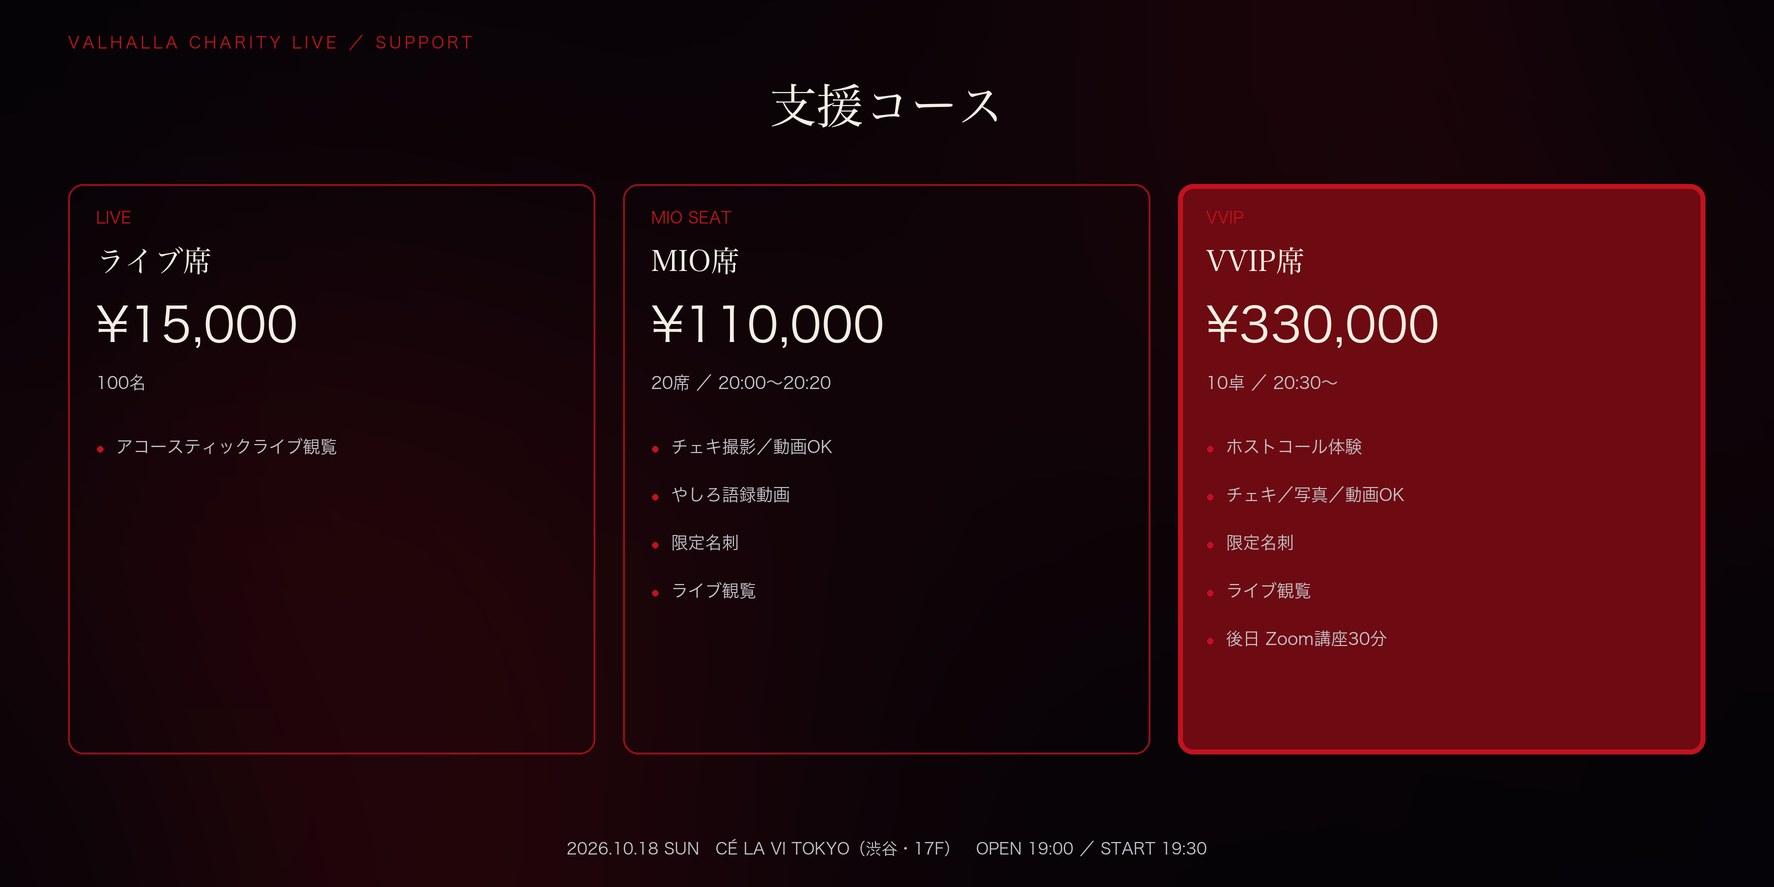
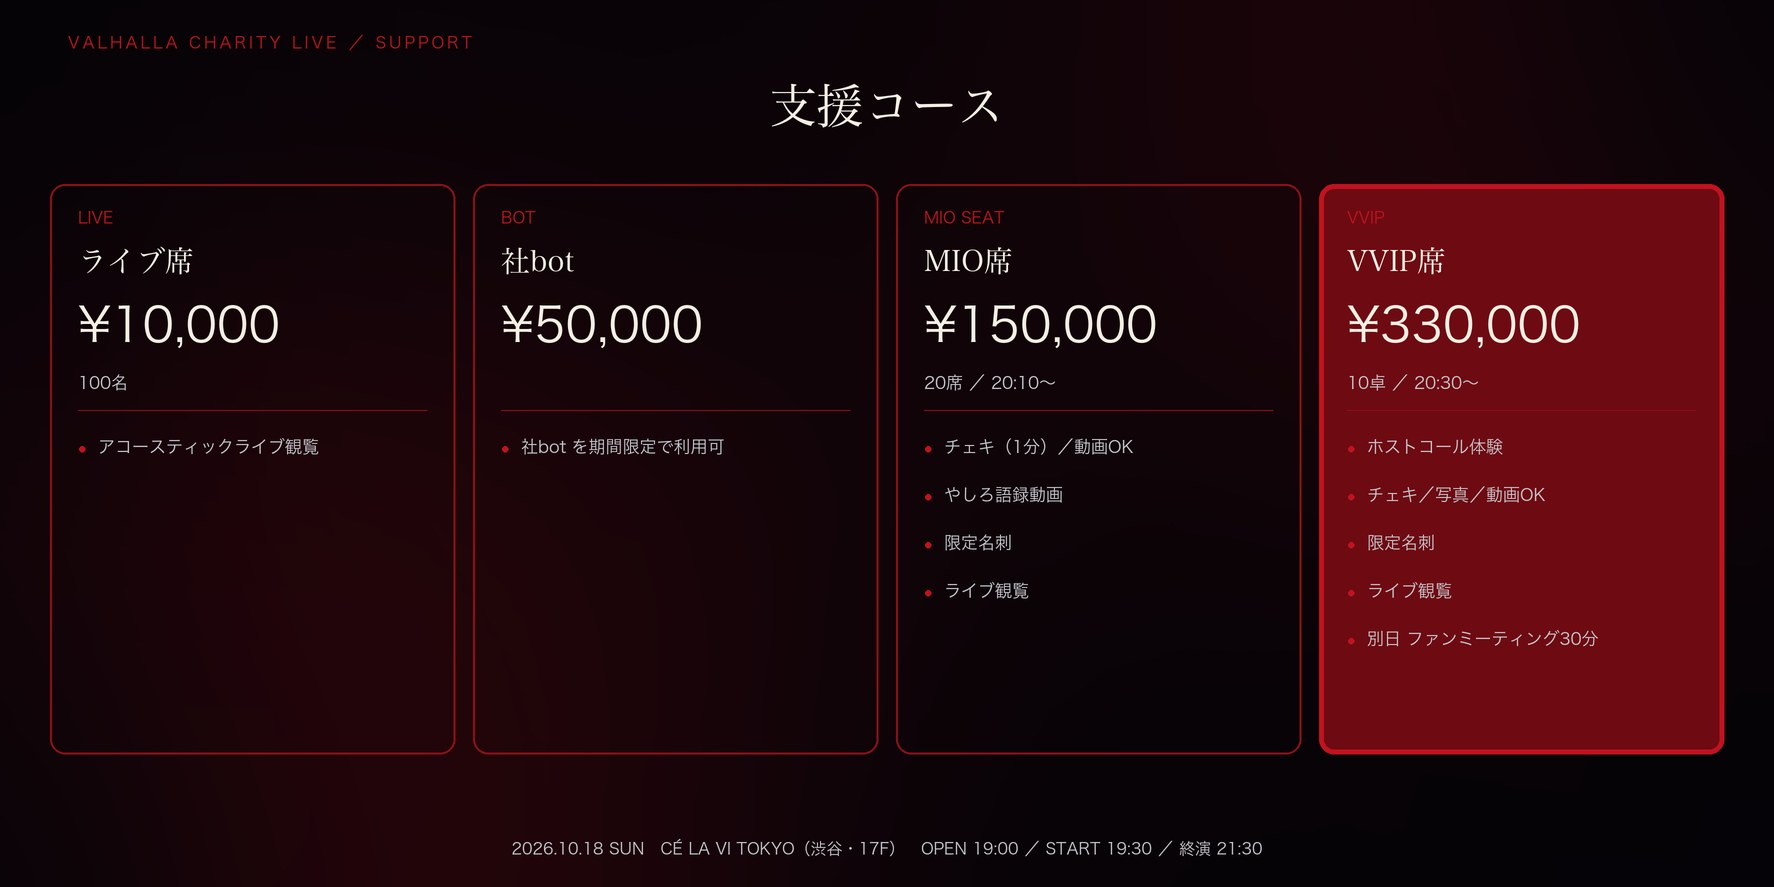
charity: update the return tiers per kazuma's revision
- ライブ席 15,000円 -> 10,000円
- MIO席 110,000円 -> 150,000円 / 開始を20:10へ
- VVIPのプレミアムを Zoom から「別日・対面のグループセッション30分
  (ファンミーティング)」へ変更
- 【社bot】50,000円 を新設
- returns_banner を4カードで再生成、LPの支援コースとリターン設定表も追随

以前こちらから提案していたシンプル応援/推し応援プラン/法人協賛は
今回の構成に含まれないため外した。

未確定: 社botの内容と数量、ライブ観覧の有無、
「クラファン返礼品5万以上から」の解釈、ファンミーティングの日程。

diff --git a/campfire-preview.html b/campfire-preview.html
@@ -21,7 +21,7 @@ figcaption{font-size:12.5px;color:var(--sub);margin-top:8px;text-align:center}
 .ph{padding:36px;border:2px dashed #d33;color:#d33;text-align:center;font-size:13px;border-radius:4px}
 .tbd{background:#ffe9a8;color:#8a6b00;padding:1px 5px;border-radius:3px;font-weight:700}
 code{background:#f0f0f0;padding:1px 5px;border-radius:3px;font-size:13px}
-</style></head><body><div class='note'>CAMPFIRE 本文プレビュー ／ 画像 12 枚 ／ 未確定の箇所 <b>17</b> 件（黄色のハイライト） ／ 出典: docs/campfire-project-body.md の §3 本文</div><main><figure class="img">
+</style></head><body><div class='note'>CAMPFIRE 本文プレビュー ／ 画像 12 枚 ／ 未確定の箇所 <b>16</b> 件（黄色のハイライト） ／ 出典: docs/campfire-project-body.md の §3 本文</div><main><figure class="img">
 <img src="assets/charity/flyer_wide.jpg" alt="">
 <figcaption>メインビジュアル</figcaption>
 </figure>
@@ -114,58 +114,36 @@ code{background:#f0f0f0;padding:1px 5px;border-radius:3px;font-size:13px}
 <img src="assets/charity/returns_banner.jpg" alt="">
 <figcaption>支援コース一覧</figcaption>
 </figure>
-<p>会場に来られる方も、来られない方も、それぞれの形でご参加いただけます。</p>
 <hr>
+<p><strong>【ライブ席】10,000円</strong><span class="tbd">〔100名〕</span></p>
 <ul>
-<li>お礼のメール</li>
-<li>イベントレポート（デジタル）</li>
-<li>（30,000円）公式サイトにお名前掲載</li>
-</ul>
-<p><strong>【シンプル応援】3,000円 / 5,000円 / 30,000円</strong>リターン品なしで純粋に応援いただくコースです。※ 会場のご観覧席は含まれません。</p>
-<hr>
-<ul>
-<li>ライブ観覧（5〜6曲）</li>
-<li><strong>フリードリンク（飲み放題）</strong>〔提供時間・内容は最終調整中〕</li>
-<li>お礼のメール／イベントレポート（デジタル）</li>
-<p><strong>【ライブ席】15,000円（100名）</strong>VALHALLA アコースティックライブをご観覧いただけます。</p>
+<li>アコースティックライブ観覧</li>
 </ul>
 <hr>
+<p><strong>【社bot】50,000円</strong><span class="tbd">〔◯名〕</span></p>
 <ul>
-<li>指定メンバーからのお礼メッセージ動画</li>
-<li>ライブ観覧</li>
-<li>「〇〇応援プラン支援者」としてお名前掲載</li>
-<li>イベントレポート（デジタル）</li>
-<p><strong>【推し応援プラン】MIO / RAY / KØU　各<span class="tbd">〔50,000〕</span>円（各<span class="tbd">〔10〕</span>名）</strong>応援したいメンバーを指定してご支援いただくコースです。</p>
+<li><strong>社bot を期間限定でご利用いただけます</strong>〔※ 社bot の説明を確定〕</li>
+<li>アコースティックライブ観覧〔※ライブ観覧が付くかを確定〕</li>
 </ul>
 <hr>
+<p><strong>【MIO席】150,000円</strong><span class="tbd">〔20席／20:10〜〕</span></p>
 <ul>
-<li>MIO とのチェキ撮影（お一人約1分）／動画撮影OK</li>
+<li>MIO とのチェキ撮影（お一人1分）／動画撮影OK</li>
 <li><strong>やしろ語録動画</strong>（MIO の言葉を1つ選び、本人に語ってもらい撮影）</li>
-<li><strong>限定名刺</strong>（QRから限定シャンパンコール動画を視聴可）</li>
-<li>ライブ観覧</li>
-<p><strong>【MIO席】110,000円（20席・20:00〜20:20）</strong></p>
+<li><strong>限定名刺</strong>（QRコードから限定シャンパンコール動画を視聴できます）</li>
+<li>アコースティックライブ観覧</li>
 </ul>
 <hr>
+<p><strong>【VVIP席】330,000円</strong><span class="tbd">〔10卓／20:30〜〕</span></p>
 <ul>
-<li><strong>ホストコール体験</strong>（MIO が各卓を5分前後まわり直接お話しします）</li>
-<li>チェキ／写真／動画すべてOK</li>
-<li>限定名刺（QRから限定シャンパンコール動画）</li>
-<li>ライブ観覧</li>
-<li>【後日】Zoomグループセッション30分「女性に喜ばれる男性の心構え」講座〔実施日〕</li>
-<p><strong>【VVIP席】330,000円（10卓・20:30〜）</strong></p>
-</ul>
-<hr>
-<ul>
-<li>会場LEDスクリーンへのロゴ掲出</li>
-<li>プレスリリース／公式サイトに企業名・ロゴ掲載</li>
-<li>ライブ席〔5〕席</li>
-<p><strong>【ゴールド協賛｜法人様向け・限定<span class="tbd">〔2〕</span>社】<span class="tbd">〔100,000〕</span>円</strong></p>
+<li><strong>ホストコール体験</strong> … MIO が各卓を5分前後ずつ巡回し、直接お話しします</li>
+<li>チェキ／写真／動画OK</li>
+<li><strong>限定名刺</strong>（QRコードから限定シャンパンコール動画を視聴できます）</li>
+<li>アコースティックライブ観覧</li>
 </ul>
 <ul>
-<li>会場LEDスクリーンへの最大サイズ ロゴ掲出</li>
-<li>プレスリリース／公式サイトに企業名・ロゴ掲載</li>
-<li>ライブ席〔10〕席</li>
-<p><strong>【冠協賛｜法人様向け・限定1社】<span class="tbd">〔300,000〕</span>円</strong></p>
+<li><strong>【別日】対面でのグループセッション（30分）</strong> … 「女性に喜ばれる男性の心構え」講座／ファンミーティング〔2026年11月・日程調整中〕</li>
+<p><strong>⭐ プレミアムサービス</strong></p>
 </ul>
 <hr>
 <p>※ 物販の実施はありません。※ チケットは電子チケットを2026年10月上旬にメールでお送りします。当日受付にてご提示ください。※ お席は主催者にて指定させていただきます。</p>

diff --git a/charity.html b/charity.html
@@ -536,7 +536,7 @@
 
     <div class="r">
       <div class="rn">ライブ席</div>
-      <div class="rp">¥15,000</div>
+      <div class="rp">¥10,000</div>
       <div class="lim">100名</div>
       <ul>
         <li>アコースティックライブ観覧</li>
@@ -545,9 +545,19 @@
     </div>
 
     <div class="r">
+      <div class="rn">社bot</div>
+      <div class="rp">¥50,000</div>
+      <div class="lim"><span class="tbd">【数量・調整中】</span></div>
+      <ul>
+        <li>社bot を期間限定でご利用いただけます<span class="tbd">【内容・調整中】</span></li>
+      </ul>
+      <a class="pay-btn" data-pay="bot">このコースで支援する</a>
+    </div>
+
+    <div class="r">
       <div class="rn">MIO席</div>
-      <div class="rp">¥110,000</div>
-      <div class="lim">20席 ／ 20:00〜20:20</div>
+      <div class="rp">¥150,000</div>
+      <div class="lim">20席 ／ 20:10〜</div>
       <ul>
         <li>MIO とチェキ（1分）／動画撮影OK</li>
         <li>やしろ語録動画（MIO の言葉を1つ選び、本人に語ってもらい撮影）</li>
@@ -567,7 +577,7 @@
         <li>チェキ／写真／動画OK</li>
         <li>限定名刺（QRから“限定シャンパンコール”が見れる）</li>
         <li>アコースティックライブ観覧</li>
-        <li>【別日】Zoomグループセッション（女性に喜ばれる男性の心構え講座／30分）</li>
+        <li><b style="color:var(--ink)">⭐ プレミアムサービス</b><br>【別日】対面でのグループセッション30分（女性に喜ばれる男性の心構え講座／ファンミーティング）<span class="tbd">【2026年11月・日程調整中】</span></li>
       </ul>
       <a class="pay-btn" data-pay="vvip">このコースで支援する</a>
     </div>
@@ -683,6 +693,7 @@
   // ---- CAMPFIRE / 決済リンク：各コースのURLをここに貼るだけ
   const PAYLINK = {
     live: "",   // ライブ席
+    bot:  "",   // 社bot
     mio:  "",   // MIO席
     vvip: ""    // VVIP席
   };

diff --git a/assets/charity/create_returns_banner.py b/assets/charity/create_returns_banner.py
@@ -193,17 +193,19 @@ def fit_card_title_font(draw: ImageDraw.ImageDraw, titles: tuple[tuple[str, ...]
 
 
 def add_cards(base: Image.Image) -> None:
-    margin, gap = 68, 28
-    width = (W - margin * 2 - gap * 2) // 3
+    margin, gap = 50, 18
+    width = (W - margin * 2 - gap * 3) // 4
     height, top = 570, 184
     cards = (
-        ("LIVE", "ライブ席", "¥15,000", "100名",
+        ("LIVE", "ライブ席", "¥10,000", "100名",
          ("アコースティックライブ観覧",)),
-        ("MIO SEAT", "MIO席", "¥110,000", "20席 ／ 20:00〜20:20",
-         ("チェキ撮影／動画OK", "やしろ語録動画", "限定名刺", "ライブ観覧")),
+        ("BOT", "社bot", "¥50,000", "",
+         ("社bot を期間限定で利用可",)),
+        ("MIO SEAT", "MIO席", "¥150,000", "20席 ／ 20:10〜",
+         ("チェキ（1分）／動画OK", "やしろ語録動画", "限定名刺", "ライブ観覧")),
         ("VVIP", "VVIP席", "¥330,000", "10卓 ／ 20:30〜",
          ("ホストコール体験", "チェキ／写真／動画OK", "限定名刺", "ライブ観覧",
-          "後日 Zoom講座30分")),
+          "別日 ファンミーティング30分")),
     )
     d = ImageDraw.Draw(base)
     kicker = face(SANS, 16)
@@ -213,7 +215,7 @@ def add_cards(base: Image.Image) -> None:
     bullet_font = face(SANS, 17)
     for index, (small, title, amount, note, bullets) in enumerate(cards):
         x = margin + index * (width + gap)
-        emphasized = index == 2
+        emphasized = index == 3
         d.rounded_rectangle(
             sbox((x, top, x + width, top + height)), radius=15 * SCALE,
             fill=(*DEEPEST_CRIMSON, 255) if emphasized else None,
@@ -224,6 +226,10 @@ def add_cards(base: Image.Image) -> None:
         d.text(spos((x + 28, top + 62)), title, font=title_font, fill=CREAM, anchor="la")
         d.text(spos((x + 28, top + 116)), amount, font=amount_font, fill=CREAM, anchor="la")
         d.text(spos((x + 28, top + 190)), note, font=meta_font, fill=SILVER, anchor="la")
+        d.line(
+            spos((x + 28, top + 226, x + width - 28, top + 226)),
+            fill=(*DARK_CRIMSON, 220), width=SCALE,
+        )
         for line_no, line in enumerate(bullets):
             cy = top + 254 + line_no * 48
             d.ellipse(sbox((x + 29, cy + 8, x + 35, cy + 14)), fill=CRIMSON)
@@ -242,7 +248,7 @@ def add_footer(base: Image.Image) -> None:
     d = ImageDraw.Draw(base)
     d.text(
         spos((W / 2, 840)),
-        "2026.10.18 SUN　CÉ LA VI TOKYO（渋谷・17F）　OPEN 19:00 ／ START 19:30",
+        "2026.10.18 SUN　CÉ LA VI TOKYO（渋谷・17F）　OPEN 19:00 ／ START 19:30 ／ 終演 21:30",
         font=face(SANS, 16), fill=SILVER, anchor="ma",
     )
 
